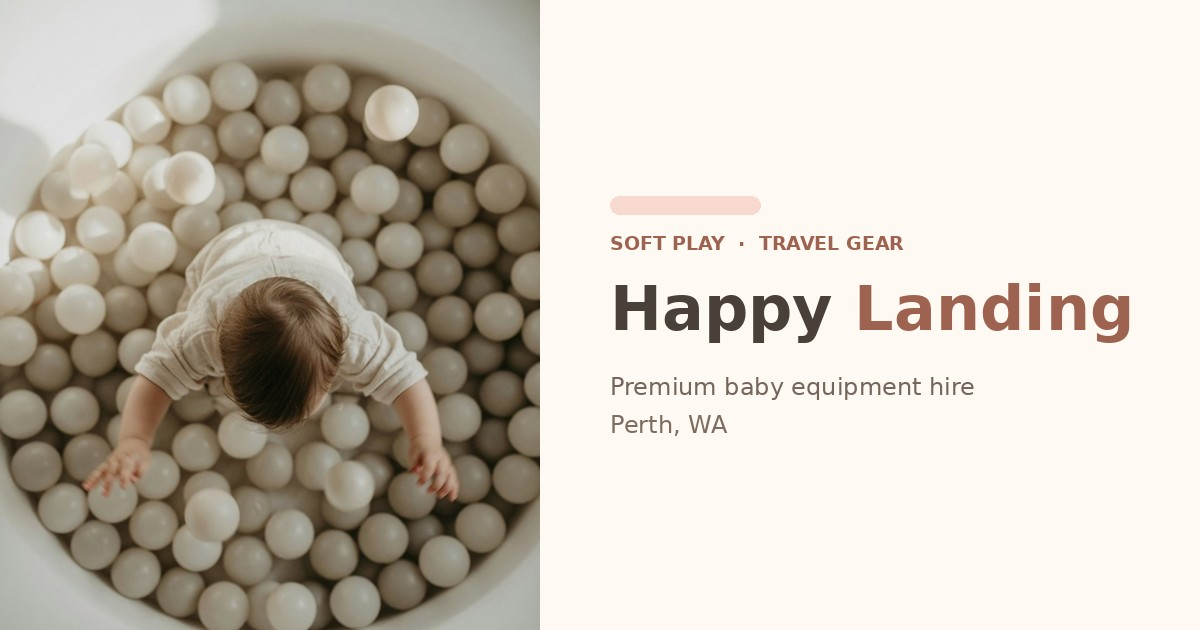
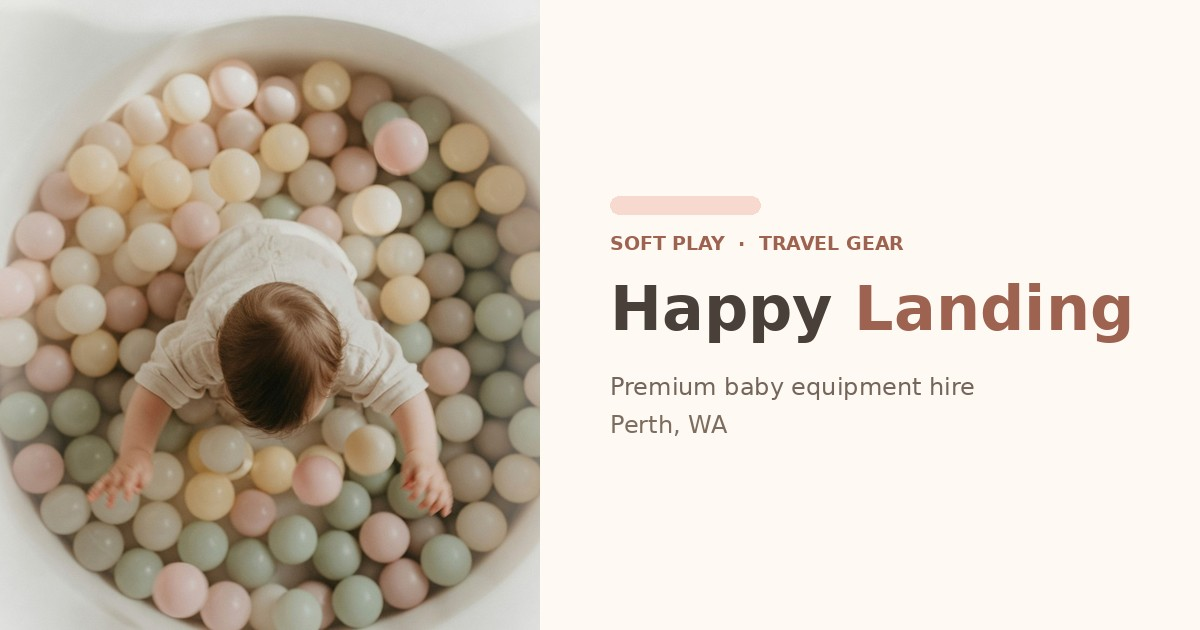
Add files via upload

Changed region(s): [[0.0, 0.0, 0.4625, 1.0]]

diff --git a/index.html b/index.html
@@ -391,7 +391,7 @@
       </div>
     </div>
     <div class="hero-visual">
-      <img src="hero-ballpit.jpg" alt="A child playing in a cream and ivory ball pit, viewed from above" class="hero-img">
+      <img src="hero-ballpit.jpg" alt="A child playing in a warm pastel ball pit, viewed from above" class="hero-img">
     </div>
   </section>
 
